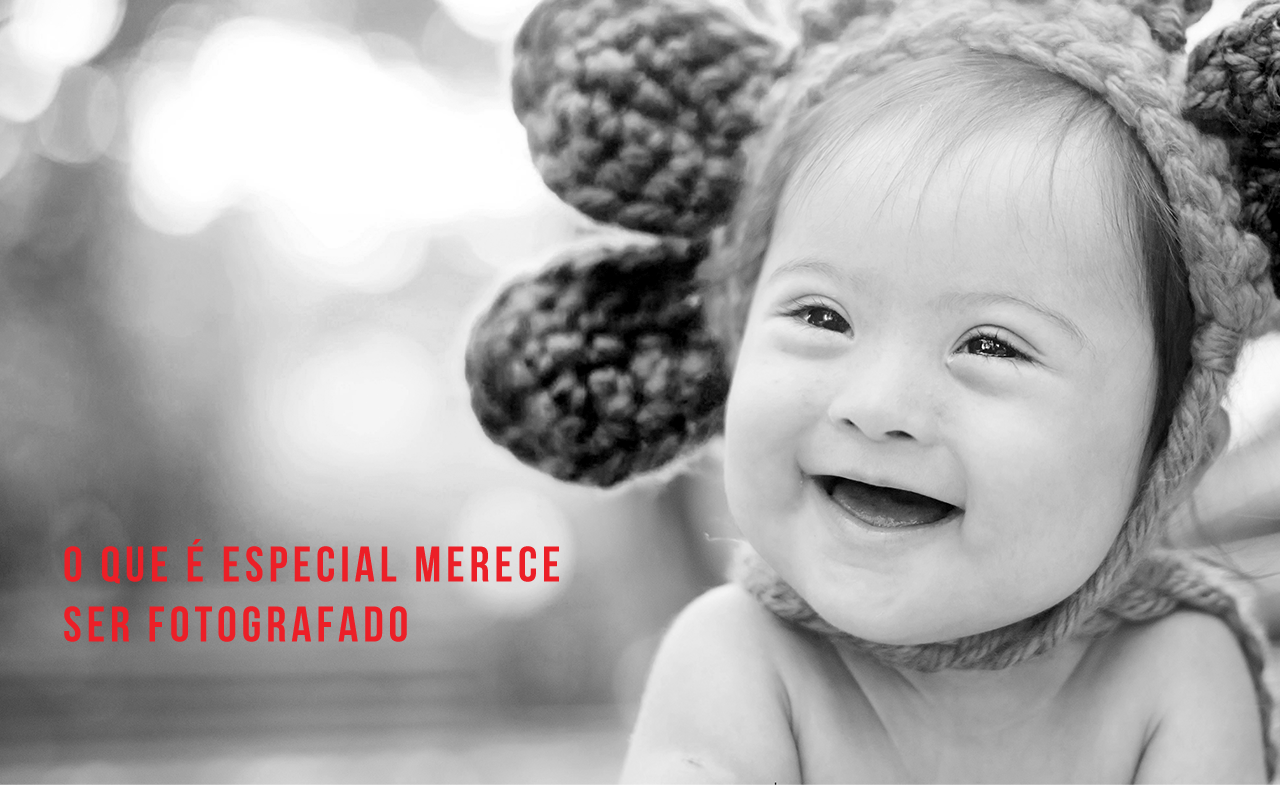
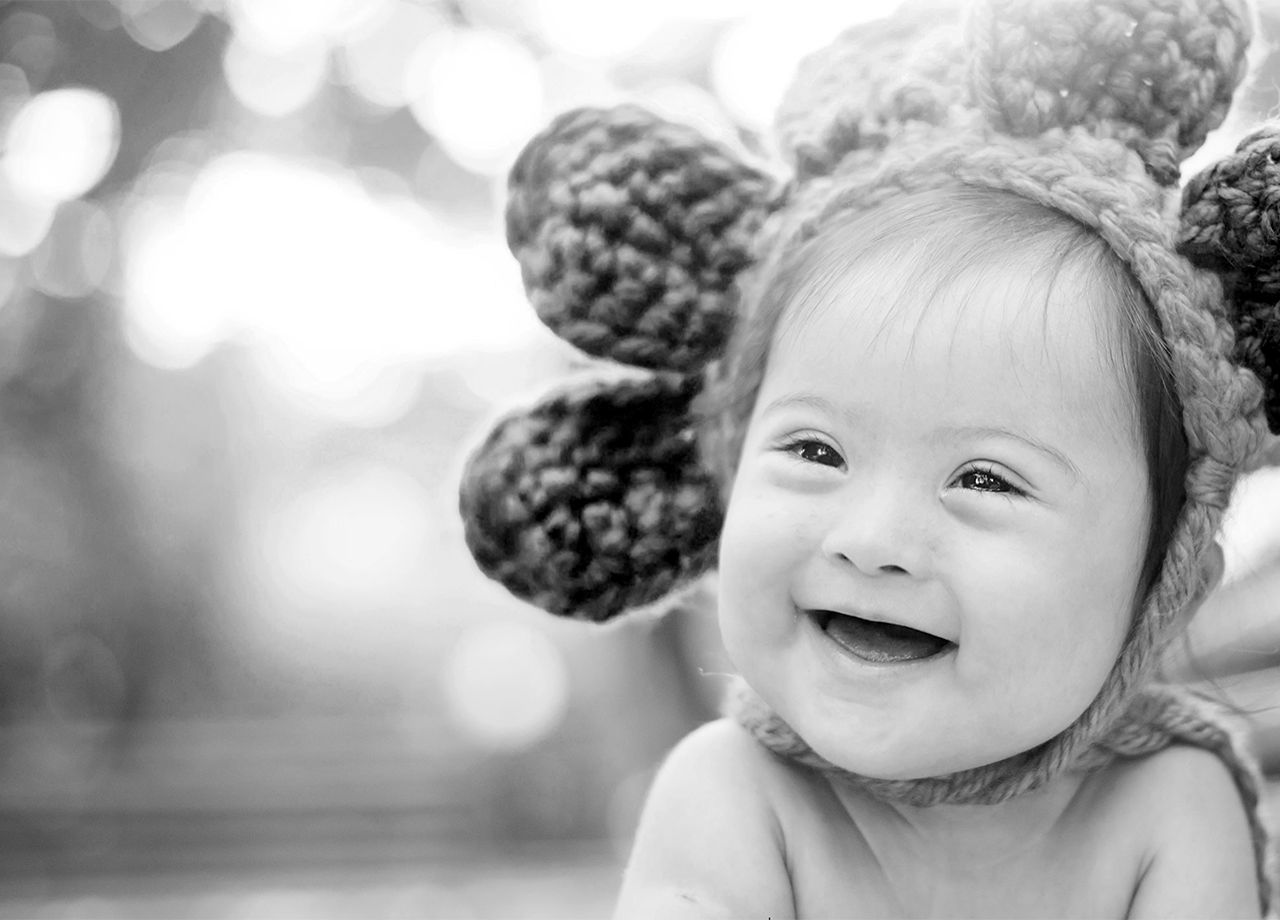
modificações na estrutura do carousel (agora funcionando perfeitamente \o/)

diff --git a/index.html b/index.html
@@ -73,41 +73,49 @@
         <!-- /.container -->
     </nav>
 
-    <!-- Intro Section -->
-    <section id="intro" class="intro-section">
-        <div class="container-fluid">
-            <div class="row">
-<div id="carousel-example-generic" class="carousel slide" data-ride="carousel">
-  <!-- Indicators -->
-  <ol class="carousel-indicators">
-    <li data-target="#carousel-example-generic" data-slide-to="0" class="active"></li>
-    <li data-target="#carousel-example-generic" data-slide-to="1"></li>
-    <li data-target="#carousel-example-generic" data-slide-to="2"></li>
-  </ol>
+    <!-- Full Page Image Background Carousel Header -->
+    <header id="myCarousel" class="carousel slide">
+        <!-- Indicators -->
+        <ol class="carousel-indicators">
+            <li data-target="#myCarousel" data-slide-to="0" class="active"></li>
+            <li data-target="#myCarousel" data-slide-to="1"></li>
+            <li data-target="#myCarousel" data-slide-to="2"></li>
+        </ol>
 
-  <!-- Wrapper for slides -->
-  <div class="carousel-inner" role="listbox">
-    <div class="item active">
-      <img src="img/carousel/first.png" alt="...">
-    </div>
-    <div class="item">
-      <img src="img/carousel/first.png" alt="...">
-    </div>
-    ...
-  </div>
-
-  <!-- Controls -->
-  <a class="left carousel-control" href="#carousel-example-generic" role="button" data-slide="prev">
-    <span class="glyphicon glyphicon-chevron-left" aria-hidden="true"></span>
-    <span class="sr-only">Previous</span>
-  </a>
-  <a class="right carousel-control" href="#carousel-example-generic" role="button" data-slide="next">
-    <span class="glyphicon glyphicon-chevron-right" aria-hidden="true"></span>
-    <span class="sr-only">Next</span>
-  </a>
-</div>
+        <!-- Wrapper for Slides -->
+        <div class="carousel-inner">
+            <div class="item active">
+                <div class="fill" style="background-image:url(img/carousel/first.png);"></div>
+                <div class="carousel-caption">
+                    <h2>O que é especial merece ser fotografado</h2>
+                </div>
+            </div>
+            <div class="item">
+                <div class="fill" style="background-image:url(img/carousel/first.png);"></div>
+                <div class="carousel-caption">
+                    <h2>Caption 2</h2>
+                </div>
+            </div>
+            <div class="item">
+                <div class="fill" style="background-image:url(img/carousel/first.png);"></div>
+                <div class="carousel-caption">
+                    <h2>Caption 3</h2>
+                </div>
             </div>
         </div>
+
+        <!-- Controls -->
+        <a class="left carousel-control" href="#myCarousel" data-slide="prev">
+            <span class="icon-prev"></span>
+        </a>
+        <a class="right carousel-control" href="#myCarousel" data-slide="next">
+            <span class="icon-next"></span>
+        </a>
+
+    </header>
+
+    <!-- Intro Section -->
+    <section id="intro" class="intro-section">
     </section>
 
     <!-- About Section -->

diff --git a/css/style.css b/css/style.css
@@ -51,8 +51,24 @@ html {
     background: #fff;
 }
 
-#owl-demo .item img{
-    display: block;
+.carousel,
+.item,
+.active {
+    height: 100%;
+}
+
+.carousel-inner {
+    height: 100%;
+}
+
+/* Background images are set within the HTML using inline CSS, not here */
+
+.fill {
     width: 100%;
     height: 100%;
+    background-position: center;
+    -webkit-background-size: cover;
+    -moz-background-size: cover;
+    background-size: cover;
+    -o-background-size: cover;
 }
